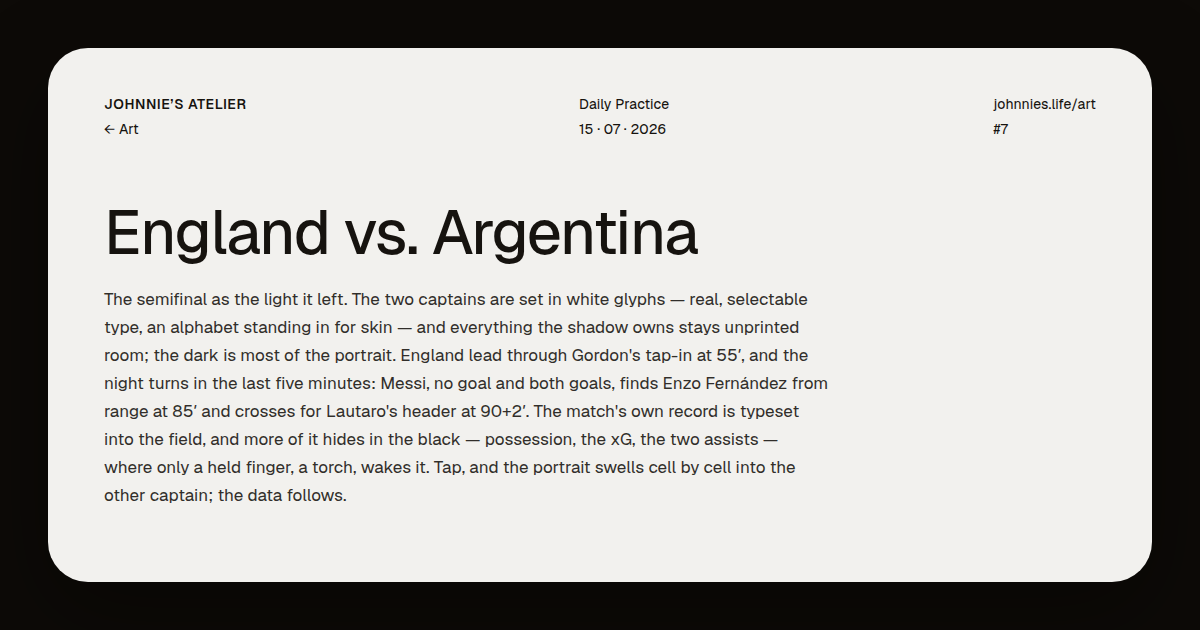
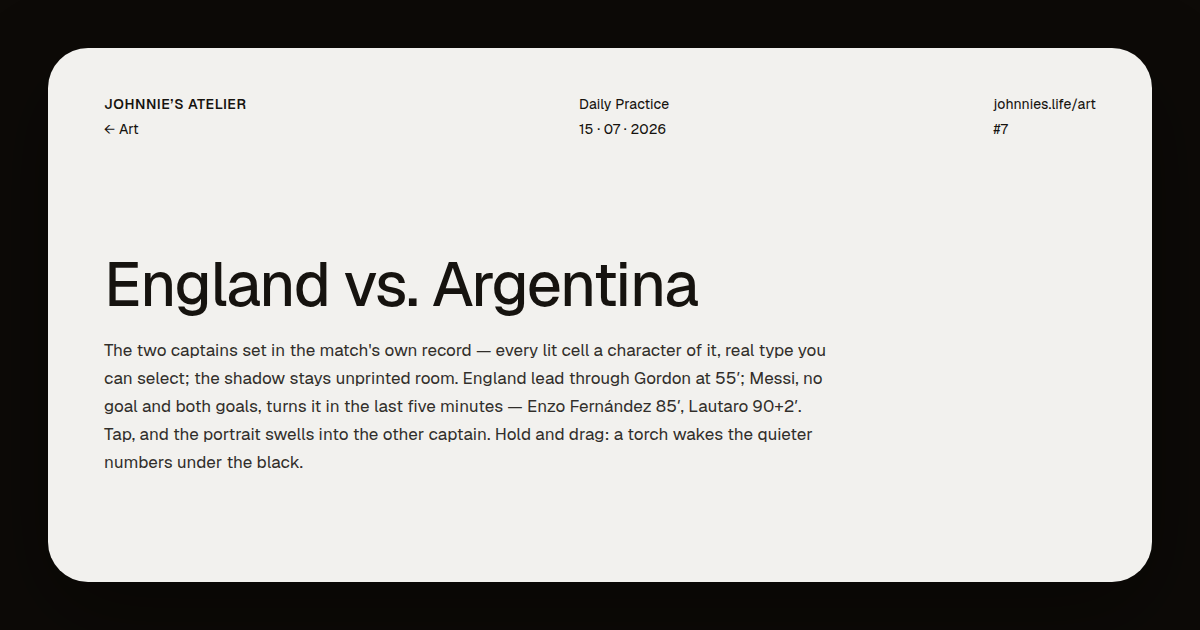
art: pieza 7 — the portrait becomes the record (#419)
The face is now typeset from the match itself: every lit cell carries a
character of the night's running record — the goals, Messi's two
assists, the possession, the ground — and each face reads its nation's
goals first. Tone rides two axes (alpha and variable weight, hairline
cheeks to near-black brow) over 96 columns with local contrast and a
seeded grain, so the text stays texture until you lean in. The score
keeps its row above the brow; the quieter numbers still hide in the
black for the torch. An invisible text layer carries the same characters
for selection and copy. Wall label cut to house length.

Changed region(s): [[0.0617, 0.3317, 0.7092, 0.8143]]

diff --git a/johnnie/public/art/7.html b/johnnie/public/art/7.html
@@ -2,54 +2,52 @@
 <meta charset="utf-8">
 <meta name="viewport" content="width=device-width,initial-scale=1,viewport-fit=cover">
 <title>#7 · Umbral — England vs. Argentina · Johnnie&#x27;s atelier</title>
-<meta name="description" content="England lead through Gordon at 55′; Messi — no goal, both goals — turns it in the last five minutes: Enzo Fernández 85′, Lautaro 90+2′. The two captains in white type over the dark room, the match record typeset into the field. Tap, and the portrait swells into the other captain; drag, and a torch finds the data hiding in the black.">
+<meta name="description" content="The two captains typeset from the match's own record, the shadow left unprinted. England lead through Gordon at 55′; Messi turns it late with both assists — Enzo Fernández 85′, Lautaro 90+2′. Tap, and the portrait swells into the other captain; drag, and a torch wakes the numbers hiding in the black.">
 <meta property="og:type" content="website">
 <meta property="og:url" content="https://johnnies.life/art/7">
 <meta property="og:title" content="#7 · Umbral — England vs. Argentina · Johnnie&#x27;s atelier">
-<meta property="og:description" content="England lead through Gordon at 55′; Messi — no goal, both goals — turns it in the last five minutes: Enzo Fernández 85′, Lautaro 90+2′. The two captains in white type over the dark room, the match record typeset into the field. Tap, and the portrait swells into the other captain; drag, and a torch finds the data hiding in the black.">
+<meta property="og:description" content="The two captains typeset from the match's own record, the shadow left unprinted. England lead through Gordon at 55′; Messi turns it late with both assists — Enzo Fernández 85′, Lautaro 90+2′. Tap, and the portrait swells into the other captain; drag, and a torch wakes the numbers hiding in the black.">
 <meta property="og:image" content="https://johnnies.life/art/og/007.png">
 <meta property="og:image:width" content="1200">
 <meta property="og:image:height" content="630">
 <meta name="twitter:card" content="summary_large_image">
 <meta name="twitter:title" content="#7 · Umbral — England vs. Argentina · Johnnie&#x27;s atelier">
-<meta name="twitter:description" content="England lead through Gordon at 55′; Messi — no goal, both goals — turns it in the last five minutes: Enzo Fernández 85′, Lautaro 90+2′. The two captains in white type over the dark room, the match record typeset into the field. Tap, and the portrait swells into the other captain; drag, and a torch finds the data hiding in the black.">
+<meta name="twitter:description" content="The two captains typeset from the match's own record, the shadow left unprinted. England lead through Gordon at 55′; Messi turns it late with both assists — Enzo Fernández 85′, Lautaro 90+2′. Tap, and the portrait swells into the other captain; drag, and a torch wakes the numbers hiding in the black.">
 <meta name="twitter:image" content="https://johnnies.life/art/og/007.png">
 <body>
 <style>
-/* the portrait is real type — the one artwork in the atelier you can
-   select and copy. The frame kills selection on art surfaces; the bright
-   layer alone takes it back (and yields it again while a drag torches). */
+/* the portrait is typeset from the match record — real type, and the one
+   artwork in the atelier you can select and copy. The visible glyphs are
+   painted on canvas at each cell's true luminance; an invisible text
+   layer carries the same characters for selection and copy. */
 .um{position:absolute;inset:0;display:flex;align-items:center;justify-content:center}
 .um .fw{position:relative}
-.um pre{margin:0;line-height:1.14;font-weight:520;color:#f2f1ee;
+.um pre{margin:0;line-height:1.14;font-weight:520;position:relative;
 font-family:'Geist Mono',ui-monospace,monospace;
-text-shadow:0 0 16px rgba(242,241,238,.10)}
-.um pre.br{-webkit-user-select:text;user-select:text}
-body.nosel .um pre.br{-webkit-user-select:none;user-select:none}
+color:transparent;-webkit-user-select:text;user-select:text}
+.um pre::selection,.um pre ::selection{background:rgba(117,170,219,.85);color:#0d0a07}
+body.nosel .um pre{-webkit-user-select:none;user-select:none}
 .um canvas{position:absolute;inset:0;pointer-events:none}
 </style>
 <script src="art.js"></script>
 <script src="frame.js"></script>
 <script src="data-007.js"></script>
 <script>
-// 007 · umbral — England 1–2 Argentina as the light it left. A portrait
-// of the two captains set in white glyphs on the dark room: real,
-// selectable type, an alphabet standing in for skin, the whole mid-tone
-// of the photograph erased — the dark is most of the portrait (an umbral
-// is a threshold; the face sits on it). Each cell's luminance picks its
-// glyph off a nine-step ramp; below the bright band nothing prints…
-// almost: a dimmer register (six fainter glyphs) hides at alpha zero
-// under the black, and the match's quieter numbers hide with it. The
-// visible record — score, goals, the ground — is typeset into the field
-// itself and travels with every change. Arrival and the tap-morph share
-// one movement: an expansive luminance wave — no scramble, no noise —
-// each cell swelling through the ramp as the front passes, a faint
-// ripple of the hidden register rolling ahead of it through the dark.
-// Tap, and the portrait swells into the other captain (Messi ↔ Kane),
-// the data following. Hold and drag, and the finger is a torch: the
-// hidden register — possession, the xG, Messi's two assists — rises to
-// meet it and decays behind it. Seeded randomness only; reduced motion
-// gets instant states; the piece rests at rAF-zero.
+// 007 · umbral — England 1–2 Argentina as the light it left. The two
+// captains on the dark room, and the portrait IS the match record: every
+// lit cell carries a character of the night's own data — the goals, the
+// assists, the possession, the ground — running through the face like
+// newsprint (an umbral is a threshold; the face sits on it). Two
+// registers of light (a dim base and a hot layer redrawn above it) carve
+// the features; the score sits above the brow; below the bright band a
+// hidden register waits at alpha zero. Arrival and the tap-morph share
+// one movement: an expansive luminance wave, each cell swelling as the
+// front passes, a ripple of the hidden register rolling ahead of it.
+// Tap, and the portrait swells into the other captain (Messi ↔ Kane) —
+// each face reads its nation's goals first. Hold and drag, and the
+// finger is a torch: the quieter numbers rise to meet it and decay
+// behind it. Seeded randomness only; reduced motion gets instant
+// states; the piece rests at rAF-zero.
 
 const seed = ART.seed("2026-07-15-007");
 const M = window.M7;
@@ -57,33 +55,45 @@ const RM = matchMedia("(prefers-reduced-motion: reduce)").matches;
 const THUMB = ART.isThumb;
 const R = ART.rng(seed + "-umbral");
 
-const DATA = {"cols":72,"rows":50,"messi":["000000000000000000000000001233455433333444443232100000000000000000000000","000000000000000000000000000355666875433576567533331100000000000000000000","000000000000000000012200001134677887643102445774344321000000000000000000","000000000000000001233000000000011221110000000125432222200000000000000000","000000000000000012120000000012222247654432100011100101221000000000000000","0000000000000002400000137aaaacba9aaffffdbb9987a9864300001110000000000000","000000000000003640017beinqppnnmkiklnoppqpooomkkjkifa62000111000000000000","0000000000012597404gprtutttuvwwwwvuvvwvvvvvvvusrqqqmib500112100000000000","00000000001359b957muvvuttuwxyyyyxyxxxxxxxxwwvvvwvvwvrle30243100000000000","0000000002468b97anvxvuvuuyzzzzyyyyyyyyyxxxwvuttttuuvxrmb3453210000000000","000000001469ab79muvxwvvuwxxxxyxyzyyzyyyxxwwuutrrrrsuvrqj8976532000000000","00000001369bb99kuvvwwwvvwvwxyzyzzzzzzyyyxxwvwvtsrrrttrqkdb97643210000000","0000000247aba9dowwwxxxwwwxyzzzzzzzzzzzzzyxwvwtuvvuttrqpljea8644310000000","0000001358ba98fsvvwxwwwwvwwwyzzyxuyywyzytutrsqqrtuuwuqojdeba854321000000","0000002469a988jtvxyzxwvvwvvvvvvuqpwrpuvtosporrrrqtvxxuqlc9baa75432000000","0000003579777esvxxwuqonnmkjllijkmssokjklmpppqqqrrsuwxtsqlb89986433100000","000001468a669lvwvrnjjiifba87799jtuqkf899999aegijjllopqqqoja7874433100000","000002468b869mwvqkijjfa52115321kxzytj7321012469cefefjmooqoh9653422100000","000002469bb7amwumihcbbd97688439tzzytme311161001557bdehloppkb764312100000","00000248gjkccmwusqopsqpopoonoorxzzyqkkkgedfebbeggfcehiknqqnfb76335400000","00000246biotppwvwwxzyywwxxwxyvuyzzwpkkopsvvtronnpqqppoopqrqidceb96300000","000002469ejrvvxwyzzzzzzzzzzzxuvzzyxsmlnpswyyzzzzzyxxwurqqqrohigb85200000","000001459imnqvvwxxyyyyzzzzzyvwyzzzxsommnrwzzzyyzzzxxwusppoppjebba7300000","000001359inlittuuvvvwxyzzzxvtuvvvvronopnpwzzzzzzyvtrqponmnonic7575200000","00000024aef9grrrrsstuvwwwuslbbihhhda77dkmrwyyyxwtrpnmllllmmjhj5122100000","00000014aaaboqooppqrssttsqpqe68aab98643akmswvvtrqnlkijjlllhffhb531000000","000000039ceiqpmoppqrrrrrrsvytoje86bdefhlnnnrtsrqnlkjijklkifeefb951000000","000000016bgklmmnoprrsstvvvtqlghjgb9998chjmnpssromllkjjkjihgedca740000000","0000000039ddekkllprstuwunkjjkmptpoolebbbddhlorromkklkjjjjhed975310000000","00000000158bedgjjloqstspljiklkhghigeeeeffcdgimnmlkjjjjiihgeb654100000000","00000000002456bgilnnqrplgb9eefhiheeeeeca9748dikjkjighiigfeb8532000000000","000000000012357cfilknpmgbdlrrnqpppnlllmkjie78dghiigggffdca95320000000000","0000000000012458cdghjjkhehnnlgea9a889adgikkiaacdggghedca8764200000000000","00000000000012459bcdggggceefhkid96458aceededbbbdefgec9865542000000000000","00000000000000237b98aeeda77bkquuspqpqpnlieca99bdddca75444310000000000000","0000000000000001489858aba9chkmppqppqrrqnjieb99bca85433432000000000000000","00000000000000001367744678acefgfcacehhgccdb99876432333210000000000000000","000000000000000000135533357998898688897666654322233321000000000000000000","000000000000000000000232222334555433454332221133221000000000000000000000","000000000000000000000000111111112211111111001111000000000000000000000000","000000000000000000000000000000011111111100000000000000000000000000000000","000000000000000000000000000000000000000000000000000000000000000000000000","000000000000000000000000000000000000000000000000000000000000000000000000","000000000000000000000000000000000000000000000000000000000000000000000000","000000000000000000000000000000000000000000000000000000000000000000000000","000000000000000000000000000000000000000000000000000000000000000000000000","000000000000000000000000000000000000000000000000000000000000000000000000","000000000000000000000000000000000000000000000000000000000000000000000000","000000000000000000000000000000000000000000000000000000000000000000000000","000000000000000000000000000000000000000000000000000000000000000000000000"],"kane":["000000000000000000000000012244432222225311110111000000000000000000000000","000000000000000000000111245444465532436541242334310000000000000000000000","000000000000000000111348abbab97a9ab9aa8aa9568898863100000000000000000000","0000000000000000001499fijjlkjkihhgjiiijjiigfhiiiifd951000000000000000000","0000000000000001259eielrruwxwwvtrorqrtuutttuuuttrpmjfa410000000000000000","00000000000000248dimnlvzyzzzzzyxxusxyyzzzzzzzzzzzwuqnje82110000000000000","000000000000125afkotvrwzyzyzzzyxyyurtwyzzzzzzzzzzzzwtplga421000000000000","000000000001259glsvyzzywsuvvvvwwwxxwuttuvvwxxxxxxxzzzwsnhb42100000000000","00000000001358elnuzzzzyvputtsstuuvvuuvvuutttuuuuuuuuxytpkga6420000000000","0000000001247bkssszzvtrlopooooppqrrrrrssssrqpooonmlllpqokig8652000000000","0000000002457fpvvqstrojilkjjjklmnopppqrrqppnlkiiiiijlmnpmkib763100000000","000000001344ajrsqooronmmllllmnpppqrqqrrrrqppopolkjiijkmnlkid852100000000","000000001235ckqrpnnoooppppqqrtvwwvvvvvvuuvwwvvusqonkkkmmklje831000000000","000000001017ckqqponqrtttwwuuuuuuuuvuwvwvvvuuuuuvvwvvusomnnle710000000000","000000000017bflpqpptuwxwvttrrrrqqqqrqprrsrqqqpqqrrtvvvtpnomc400100000000","0000000000158ahossswwupkgcbaabcfijjkllmmmifeb8779deinqstqpnb200000000000","0000021100017dlrrsuuoga64332012359bejmmid85311013467aglqpopg301100100000","000003222112bnssqsokb8752100210003ahostpg81000001347999gmnpoc10001200000","000004422226istrsqieb7103349gc4234dluxyvmb6235336b60168dkmnqi31114400000","00000268535dltuuuohf96acgedfec9bfgjntxyxphfgdcccfgfca68dkpoqn82157400000","00000037cdbfmruvvspnmprpmjhgghkmonppvyxxrlkmomlkklmprrnlloqqob3674000000","00000047decdltuvxwvvvvwwvvuutttttrrqvxywoonnsustuvvvwxxussrpnb6863000000","00000157a8a8irsuvwxyzzzyvtrqpqqpsuvvxyzzvrolkmonnpqsssuusrrok85875200000","0000024554giltstrtuwyywuronmmmmoppuzzzzzztomklmoppqppqqrqopni82454300000","000001455aojlssrqqqstsqqonmlklkjnuwuxzzzzzupjklmopppmlmnnnmlgg9344200000","0000003679ikenrpnmnppomllljlkjfionuzytnnqspjjjllmnmmmllkjjjicgb664000000","00000015abeieippmllonmkiihhiigilb07kib778817lkjkllllkkjjijkfcfa862000000","0000000479bdgelnmllmlkjihiiiilttlfd7211147clrrljiiijjiijjkje9aa851000000","0000000147addehkllklmmlklmnorxwqnga4000158bhostolkjihiijjjhcb85420000000","000000001469feeiiilmnooooprrtoigfdedba9bdcc9chlppolkjjijigfda75200000000","000000000269cdbdefkmnooonqokgcdggebbbcca99abdcaeilljkjhgecadd84000000000","0000000000258b99degjnopppqhb86641234643442100237chlljgfdba7b941000000000","00000000000248879aefhmooqpea86743232321322248ccbefmlgba88668410000000000","00000000000014755799afhjnoe9djnnnnnnmllnnopprrokihkf96565364000000000000","0000000000000146435668cbficaflnqqoopoqqrppoprqnlideb54332330000000000000","0000000000000002422454678999cgjkkihfdbbcdggikkiea76742101100000000000000","00000000000000001211213455569cfgggda844479ceffd8543320000000000000000000","0000000000000000000000233445579dghfda898aeffda74211100000000000000000000","00000000000000000000000112234568abaaa99989876532100000000000000000000000","000000000000000000000000000123333444433333221110000000000000000000000000","000000000000000000000000000000000001110000000000000000000000000000000000","000000000000000000000000000000000000000000000000000000000000000000000000","000000000000000000000000000000000000000000000000000000000000000000000000","000000000000000000000000000000000000000000000000000000000000000000000000","000000000000000000000000000000000000000000000000000000000000000000000000","000000000000000000000000000000000000000000000000000000000000000000000000","000000000000000000000000000000000000000000000000000000000000000000000000","000000000000000000000000000000000000000000000000000000000000000000000000","000000000000000000000000000000000000000000000000000000000000000000000000","000000000000000000000000000000000000000000000000000000000000000000000000"]};
[1 lines of base64/hex data omitted]
 const B36 = "0123456789abcdefghijklmnopqrstuvwxyz";
 const dec = (rows) => rows.map((r) => Array.from(r, (ch) => B36.indexOf(ch)));
 const MT = dec(DATA.messi), KT = dec(DATA.kane);
 const COLS = DATA.cols, ROWS = DATA.rows, N = COLS * ROWS;
-const RAMP = ".:+*oO#%@", DIMR = ".:-~=+";
-const HI = 24, LO = 15;      // base36 thresholds: the bright band, the hidden band
-const chAt = (l) => l >= HI ? RAMP[Math.min(8, ((l - HI) * 9 / (36 - HI)) | 0)] : " ";
+const DIMR = ".:-~=+";
+const HI = 24, LO = 15;   // lit threshold · hidden band
 const dimAt = (l) => l >= LO && l < HI ? DIMR[Math.min(5, ((l - LO) * 6 / (HI - LO)) | 0)] : " ";
 
-/* ---- the record, typeset into the field ---- */
+/* ---- the record, running through the face ---- */
+const mkTxt = (s) => s.split(" ").join("·");
+const TXT = [
+  // the messi face reads argentina's goals first; kane's reads england's
+  mkTxt("INGLATERRA 1 ARGENTINA 2 E. FERNÁNDEZ 85′ MESSI LAUTARO 90+2′ MESSI GORDON 55′ ROGERS " +
+        "POSESIÓN 64–36 XG 0.91–0.54 SEMIFINAL M102 MERCEDES-BENZ ATLANTA 68 239 ÁRBITRO ELFATH " +
+        "15·07·2026 A LA FINAL ANTE ESPAÑA "),
+  mkTxt("INGLATERRA 1 ARGENTINA 2 GORDON 55′ ROGERS E. FERNÁNDEZ 85′ MESSI LAUTARO 90+2′ MESSI " +
+        "POSESIÓN 64–36 XG 0.91–0.54 SEMIFINAL M102 MERCEDES-BENZ ATLANTA 68 239 ÁRBITRO ELFATH " +
+        "15·07·2026 A LA FINAL ANTE ESPAÑA "),
+];
+// assign the running text to each face's lit cells, row-major
+const CH = [MT, KT].map((G, f) => {
+  const a = new Array(N).fill(" ");
+  let p = 0;
+  for (let y = 0; y < ROWS; y++) for (let x = 0; x < COLS; x++)
+    if (G[y][x] >= HI) { a[y * COLS + x] = TXT[f][p % TXT[f].length]; p++; }
+  return a;
+});
+// the result stays above the brow, full-bright, on both faces
 function stamp(map, row, text) {
   const c0 = Math.round((COLS - text.length) / 2);
   for (let i = 0; i < text.length; i++)
     if (text[i] !== " ") map.set(row * COLS + c0 + i, text[i]);
 }
-const OV = [new Map(), new Map()];          // bright microcopy, per face
-for (const ov of OV) {
-  stamp(ov, 44, "INGLATERRA 1 · ARGENTINA 2");
-  stamp(ov, 48, "SEMIFINAL · ATLANTA · 15·07·2026");
-}
-stamp(OV[0], 46, "E. FERNÁNDEZ 85′ · LAUTARO 90+2′");   // the messi face carries argentina's goals
-stamp(OV[1], 46, "GORDON 55′");                          // the kane face carries england's
+const OV = new Map();
+stamp(OV, 1, "INGLATERRA 1 · ARGENTINA 2");
 const HID = new Map();                       // the quieter numbers, for the torch
-stamp(HID, 1, "M102 · 68 239 · ELFATH");
-stamp(HID, 42, "MESSI ASISTIÓ LOS DOS GOLES");
-stamp(HID, 49, "POSESIÓN 64–36 · XG 0.91–0.54");
+stamp(HID, 55, "MESSI ASISTIÓ LOS DOS GOLES");
+stamp(HID, 58, "POSESIÓN 64–36 · XG 0.91–0.54");
 
 let face = 0, entered = false;
 let W = 0, H = 0, DPR = 1, fs = 8, cw = 4.8, chh = 9.1;
@@ -93,7 +103,7 @@ let C0 = COLS, C1 = 0;
 for (const G of [MT, KT])
   for (let y = 0; y < ROWS; y++) for (let x = 0; x < COLS; x++)
     if (G[y][x] >= HI) { if (x < C0) C0 = x; if (x > C1) C1 = x; }
-for (const ov of OV) for (const k of ov.keys()) {
+for (const k of OV.keys()) {
   const x = k % COLS; if (x < C0) C0 = x; if (x > C1) C1 = x;
 }
 
@@ -101,7 +111,7 @@ const F = FRAME.mount({
   num: 7, title: "Umbral", subject: "England vs. Argentina",
   edition: "07/8", date: "15·07·2026",
   stack: "embedded type · luminance wave", time: "108 minutes",
-  desc: "The semifinal as the light it left. The two captains are set in white glyphs — real, selectable type, an alphabet standing in for skin — and everything the shadow owns stays unprinted room; the dark is most of the portrait. England lead through Gordon&#x27;s tap-in at 55′, and the night turns in the last five minutes: Messi, no goal and both goals, finds Enzo Fernández from range at 85′ and crosses for Lautaro&#x27;s header at 90+2′. The match&#x27;s own record is typeset into the field, and more of it hides in the black — possession, the xG, the two assists — where only a held finger, a torch, wakes it. Tap, and the portrait swells cell by cell into the other captain; the data follows.",
+  desc: "The two captains set in the match&#x27;s own record — every lit cell a character of it, real type you can select; the shadow stays unprinted room. England lead through Gordon at 55′; Messi, no goal and both goals, turns it in the last five minutes — Enzo Fernández 85′, Lautaro 90+2′. Tap, and the portrait swells into the other captain. Hold and drag: a torch wakes the quieter numbers under the black.",
   dark: true, open: true, gesture: true, noCanvas: true,
   onResize(w, h, dpr) {
     W = w / dpr; H = h / dpr; DPR = dpr;
@@ -111,57 +121,94 @@ const F = FRAME.mount({
 
 const wrap = document.createElement("div");
 wrap.className = "um";
-wrap.innerHTML = '<div class="fw"><pre class="br" id="br"></pre><canvas id="dm"></canvas></div>';
+wrap.innerHTML = '<div class="fw"><canvas id="bc"></canvas><canvas id="dm"></canvas><pre id="sel"></pre></div>';
 F.stage.appendChild(wrap);
 F.stage.style.touchAction = "none";
-const pre = document.getElementById("br");
+const pre2 = document.getElementById("sel");
+const bc = document.getElementById("bc"), bg = bc.getContext("2d");
 const dim = document.getElementById("dm"), dg = dim.getContext("2d");
 
 function metrics() {
   if (!W) return;
   fs = Math.max(4, Math.min(W * 0.96 / ((C1 - C0 + 1) * 0.6), H * 0.80 / (ROWS * 1.14)));
   cw = fs * 0.6; chh = fs * 1.14;
-  pre.style.fontSize = fs + "px";
-  dim.style.width = (COLS * cw) + "px"; dim.style.height = (ROWS * chh) + "px";
-  dim.width = Math.ceil(COLS * cw * DPR); dim.height = Math.ceil(ROWS * chh * DPR);
-  if (entered) { render(performance.now()); drawDim(); }
+  pre2.style.fontSize = fs + "px";
+  for (const c of [bc, dim]) {
+    c.style.width = (COLS * cw) + "px"; c.style.height = (ROWS * chh) + "px";
+    c.width = Math.ceil(COLS * cw * DPR); c.height = Math.ceil(ROWS * chh * DPR);
+  }
+  if (entered) { setSelText(); render(performance.now()); drawDim(); }
 }
 
-/* ---- render: one bright layer from luminance + shimmer + the record ---- */
+/* ---- render: canvas glyphs at each cell's true luminance ---- */
 const S = new Float32Array(N);               // transient glints, in ramp steps
 let wave = null;                              // the one movement: enter and morph
 const easeIO = (u) => u < 0.5 ? 4 * u * u * u : 1 - Math.pow(-2 * u + 2, 3) / 2;
-function render(now) {
-  const G = face ? KT : MT, ov = OV[face];
-  let out = "";
-  if (wave) {
-    const t = now - wave.t0;
-    for (let y = 0; y < ROWS; y++) {
-      for (let x = 0; x < COLS; x++) {
-        const i = y * COLS + x;
-        const d = Math.hypot((x - wave.cx) * 0.62, y - wave.cy);
-        let u = (t - (d / wave.maxd) * wave.SPREAD) / wave.TWEEN;
-        u = u < 0 ? 0 : u > 1 ? 1 : u;
-        const e = easeIO(u);
-        let l = wave.fromL[i] + (wave.toL[i] - wave.fromL[i]) * e;
-        // the crest: lit cells swell a step past themselves, then settle
-        if (wave.toL[i] >= HI - 4 || wave.fromL[i] >= HI - 4) l += Math.sin(Math.PI * u) * 4;
-        const o = (u > 0.55 ? wave.ovNew : wave.ovOld).get(i);
-        out += o || chAt(l + S[i]);
-      }
-      out += "\n";
+// letters lay uniform ink, so tone rides two axes: alpha AND font
+// weight — Geist Mono is variable 100–900, so the cheeks whisper in
+// hairline and the brow prints near-black, the way the old ramp's dot
+// density carved the face
+const GR = new Float32Array(N);
+{ const g = ART.rng(seed + "-grain");
+  for (let i = 0; i < N; i++) GR[i] = (g() - 0.5) * 3.4; }
+const tOf = (l) => Math.max(0, Math.min(1, (l - HI) / (35 - HI)));
+const aOf = (l) => l < HI ? 0 : Math.min(1, 0.07 + 0.93 * Math.pow(tOf(l), 1.85));
+const WGT = [180, 330, 480, 630, 780, 900];
+const wOf = (l) => WGT[Math.min(5, (Math.pow(tOf(l), 1.25) * 6) | 0)];
+function setSelText() {
+  // the invisible copy layer: the current face's record, plus the score
+  let o = "";
+  for (let y = 0; y < ROWS; y++) {
+    for (let x = 0; x < COLS; x++) {
+      const i = y * COLS + x;
+      o += OV.get(i) || ((face ? KT : MT)[y][x] >= HI ? CH[face][i] : " ");
     }
-  } else {
-    for (let y = 0; y < ROWS; y++) {
-      for (let x = 0; x < COLS; x++) {
-        const i = y * COLS + x;
-        const o = ov.get(i);
-        out += o || chAt(G[y][x] + S[i]);
-      }
-      out += "\n";
+    o += "\n";
+  }
+  pre2.textContent = o;
+}
+function render(now) {
+  const t = wave ? now - wave.t0 : 0;
+  bg.setTransform(DPR, 0, 0, DPR, 0, 0);
+  bg.clearRect(0, 0, COLS * cw, ROWS * chh);
+  bg.textBaseline = "top";
+  bg.fillStyle = "#f2f1ee";
+  // bucket cells by weight so the font string is set once per pass
+  const passes = WGT.map(() => []);
+  const score = [];
+  for (let y = 0; y < ROWS; y++) for (let x = 0; x < COLS; x++) {
+    const i = y * COLS + x;
+    let l, ch;
+    if (wave) {
+      const d = Math.hypot((x - wave.cx) * 0.62, y - wave.cy);
+      let u = (t - (d / wave.maxd) * wave.SPREAD) / wave.TWEEN;
+      u = u < 0 ? 0 : u > 1 ? 1 : u;
+      l = wave.fromL[i] + (wave.toL[i] - wave.fromL[i]) * easeIO(u);
+      if (wave.toL[i] >= HI - 4 || wave.fromL[i] >= HI - 4) l += Math.sin(Math.PI * u) * 4;
+      ch = (u > 0.55 ? CH[face] : wave.chOld)[i];
+    } else {
+      l = (face ? KT : MT)[y][x];
+      ch = CH[face][i];
+    }
+    const ov = OV.get(i);
+    if (ov) { score.push([ov, x, y]); continue; }
+    if (ch === " ") continue;
+    l += S[i] + GR[i];
+    const a = aOf(l);
+    if (a <= 0.01) continue;
+    passes[WGT.indexOf(wOf(l))].push([ch, x, y, a]);
+  }
+  for (let k = 0; k < WGT.length; k++) {
+    if (!passes[k].length) continue;
+    bg.font = WGT[k] + " " + fs + "px 'Geist Mono',monospace";
+    for (const [ch, x, y, a] of passes[k]) {
+      bg.globalAlpha = a;
+      bg.fillText(ch, x * cw, y * chh);
     }
   }
-  pre.textContent = out;
+  bg.font = "560 " + fs + "px 'Geist Mono',monospace";
+  bg.globalAlpha = 1;
+  for (const [ov, x, y] of score) bg.fillText(ov, x * cw, y * chh);
 }
 
 /* ---- the dim register (and the numbers hiding in it) ---- */
@@ -227,6 +274,7 @@ const wakeBright = () => { if (!braf) braf = requestAnimationFrame(brightLoop); 
 
 function startWave(toFace, cx, cy, SPREAD, TWEEN) {
   const fromL = new Float32Array(N);
+  const chOld = CH[face];
   if (wave) {
     // retarget mid-flight: capture what's on screen now
     const t = performance.now() - wave.t0;
@@ -242,19 +290,18 @@ function startWave(toFace, cx, cy, SPREAD, TWEEN) {
     for (let y = 0; y < ROWS; y++) for (let x = 0; x < COLS; x++)
       fromL[y * COLS + x] = G[y][x];
   }
-  const ovOld = OV[face];
   face = toFace;
   const G = face ? KT : MT;
   const toL = new Float32Array(N);
   for (let y = 0; y < ROWS; y++) for (let x = 0; x < COLS; x++) toL[y * COLS + x] = G[y][x];
+  setSelText();
   if (RM) { wave = null; render(performance.now()); drawDim(); return; }
   wave = { t0: performance.now(), fromL, toL, cx, cy,
-           maxd: Math.hypot(COLS * 0.62, ROWS), SPREAD, TWEEN,
-           ovOld, ovNew: OV[face] };
+           maxd: Math.hypot(COLS * 0.62, ROWS), SPREAD, TWEEN, chOld };
   wakeBright();
 }
 function morph(px, py) {
-  const r = pre.getBoundingClientRect();
+  const r = pre2.getBoundingClientRect();
   startWave(1 - face, (px - r.left) / cw, (py - r.top) / chh, 1100, 620);
 }
 function enter() {
@@ -262,7 +309,7 @@ function enter() {
   startWave(face, COLS / 2, ROWS * 0.40, 2100, 680);
 }
 
-/* ---- glints: the surface breathes in ramp steps, never noise ---- */
+/* ---- glints: cells swell into the hot layer for a breath ---- */
 function glint(x, y, amp) {
   S[y * COLS + x] = amp;
   wakeBright();
@@ -284,7 +331,7 @@ function idleGlint() {
     const n = 2 + (R() * 3 | 0);
     for (let k = 0; k < n; k++) {
       const [x, y] = cells[(R() * cells.length) | 0];
-      glint(x, y, 4 + R() * 5);
+      glint(x, y, 5 + R() * 5);
     }
   }
   schedIdle();
@@ -292,7 +339,7 @@ function idleGlint() {
 
 /* ---- the torch ---- */
 function splat(px, py) {
-  const r = pre.getBoundingClientRect();
+  const r = pre2.getBoundingClientRect();
   const cx = (px - r.left) / cw, cy = (py - r.top) / chh;
   const RAD = 9;
   for (let y = Math.max(0, cy - RAD | 0); y < Math.min(ROWS, cy + RAD); y++)
@@ -306,7 +353,7 @@ function splat(px, py) {
     const G = face ? KT : MT;
     for (let k = 0; k < 2; k++) {
       const x = (cx + R() * 5 - 2.5) | 0, y = (cy + R() * 3 - 1.5) | 0;
-      if (x >= 0 && x < COLS && y >= 0 && y < ROWS && G[y][x] >= HI) glint(x, y, 4);
+      if (x >= 0 && x < COLS && y >= 0 && y < ROWS && G[y][x] >= HI) glint(x, y, 5);
     }
   }
 }
@@ -345,6 +392,7 @@ F.stage.addEventListener("pointercancel", up);
 /* ---- arrival ---- */
 document.fonts.load("520 12px 'Geist Mono'").then(() => {
   metrics();
+  setSelText();
   if (THUMB || RM) { entered = true; render(performance.now()); drawDim(); return; }
   // a beat of dark room before the face resolves
   setTimeout(() => { enter(); schedIdle(); }, 380);